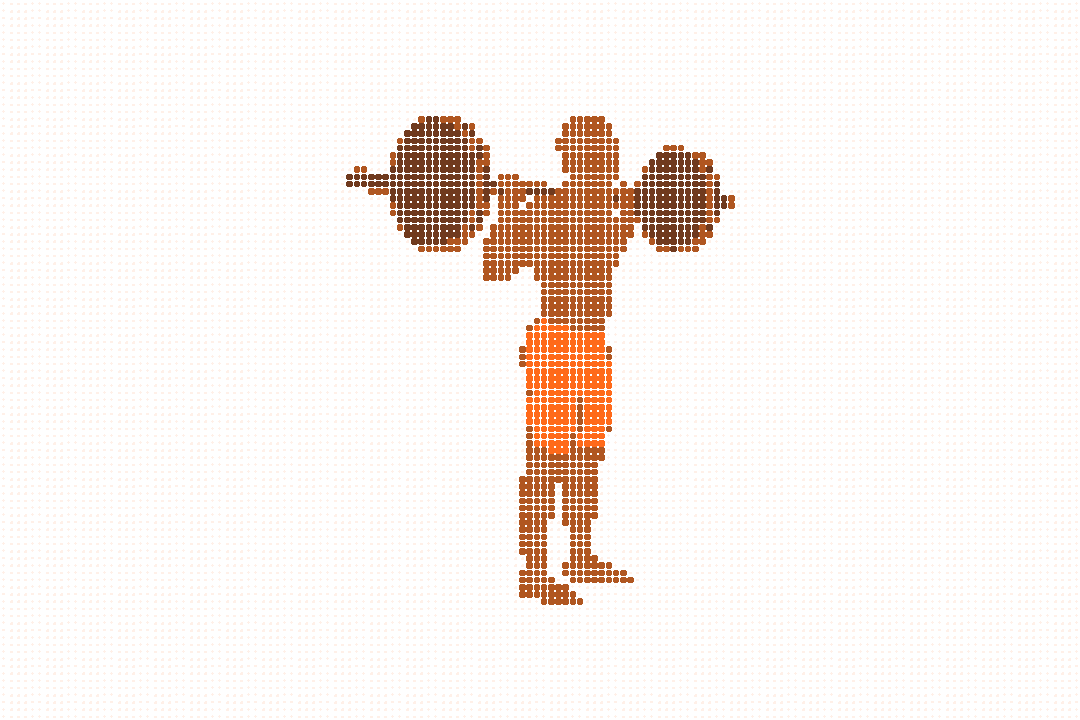
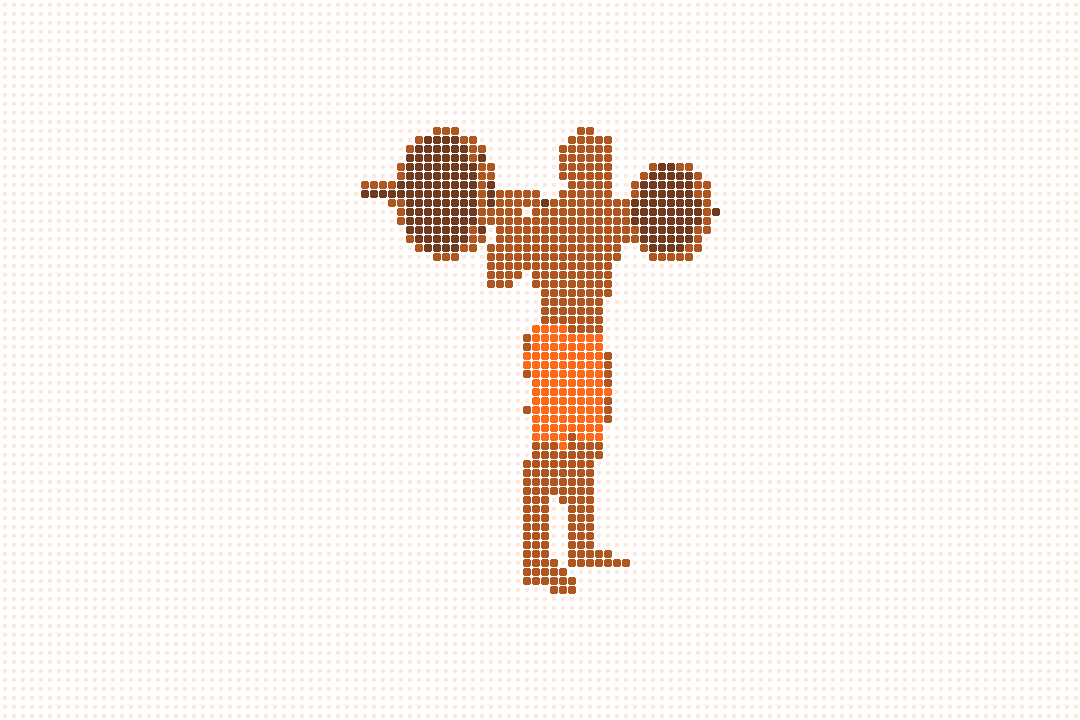
Device test: coarser dot grid and a screen bezel for the exercise art
Claude-Session: https://claude.ai/code/session_012efkHq5vxLu6pAuxD5uKLR

Changed region(s): [[0.0, 0.0, 1.0, 1.0]]

diff --git a/mobile/src/device/sheets/exercise-sheet.tsx b/mobile/src/device/sheets/exercise-sheet.tsx
@@ -18,9 +18,11 @@ import {
   fontScaleCap,
   gadgetRadius,
   gadgetType,
+  lcd,
   sheetColors,
   sheetGeometry,
   signal,
+  spacing,
 } from '@/constants/theme';
 import { useDevice } from '@/device/device-context';
 import { isSheetKind, type SheetParams } from '@/device/device-state';
@@ -149,9 +151,11 @@ export function ExerciseSheet({ params }: { params: SheetParams }) {
             { paddingBottom: Math.max(insets.bottom, sheetGeometry.bottomPad) },
           ]}>
           {art || facts?.figure ? (
-            <View style={styles.figure}>
+            <View style={art ? styles.artFrame : styles.figure}>
               {art ? (
-                <ExerciseArt frames={art} label={facts?.name} />
+                <View style={styles.artScreen}>
+                  <ExerciseArt frames={art} label={facts?.name} />
+                </View>
               ) : facts?.figure ? (
                 <ExerciseFigure figure={facts.figure} />
               ) : null}
@@ -439,6 +443,25 @@ const styles = StyleSheet.create({
     borderCurve: 'continuous',
     overflow: 'hidden',
     experimental_backgroundImage: `radial-gradient(ellipse at 50% 60%, ${figureColors.groundHi}, ${figureColors.groundLo})`,
+  },
+  // Dot-matrix art sits in a small screen: a card-coloured bezel round an lcd glass (r28 − 8 = r20).
+  artFrame: {
+    height: exerciseSheet.figureHeight,
+    marginTop: exerciseSheet.figureTop,
+    padding: spacing.sm,
+    borderRadius: gadgetRadius.figure,
+    borderCurve: 'continuous',
+    overflow: 'hidden',
+    backgroundColor: sheetColors.card,
+  },
+  artScreen: {
+    flex: 1,
+    borderRadius: gadgetRadius.lcdFrame,
+    borderCurve: 'continuous',
+    overflow: 'hidden',
+    backgroundColor: lcd.lcd,
+    borderWidth: StyleSheet.hairlineWidth,
+    borderColor: lcd.lcdShade,
   },
   // Without a figure the name starts under the floating control, like under a header.
   noFigure: { height: sheetGeometry.headerHeight },
